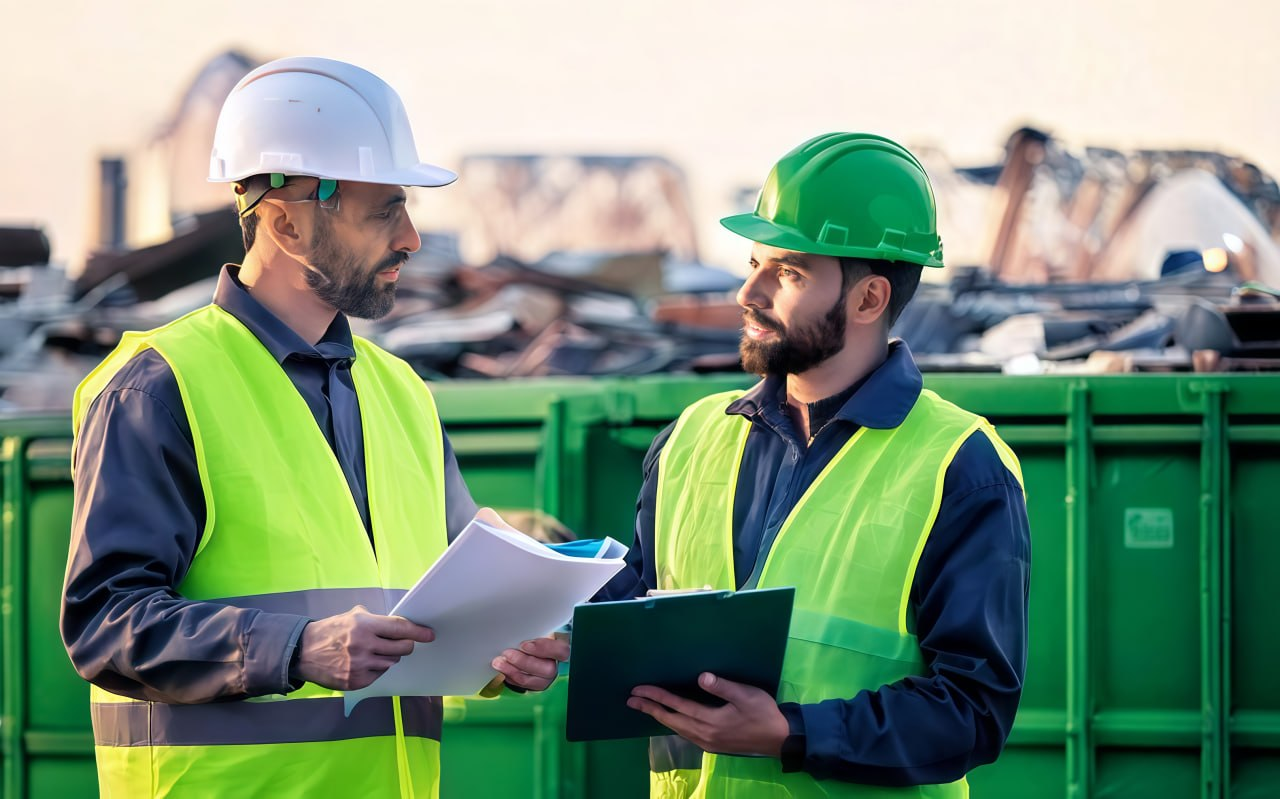
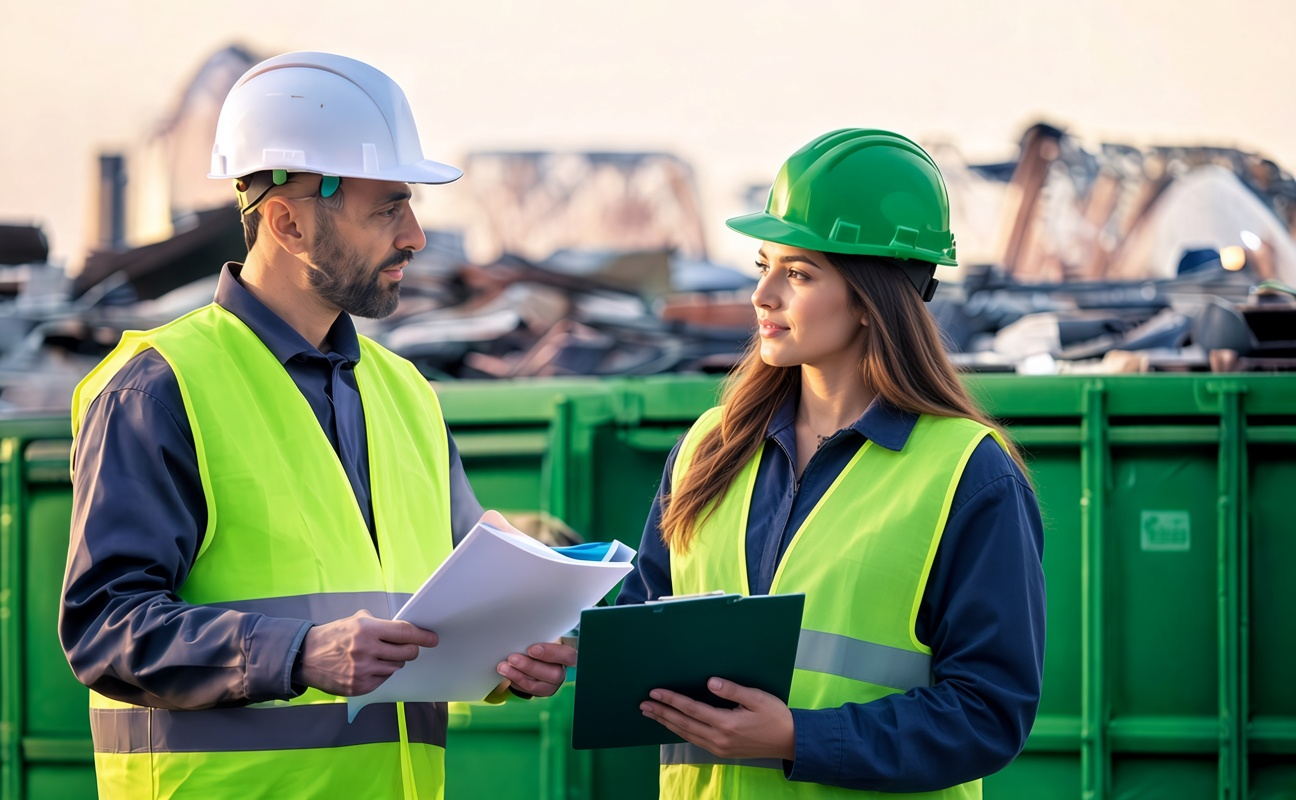
add plan page and order page

diff --git a/src/data/services.js b/src/data/services.js
@@ -6,6 +6,8 @@ import ovdImg from '../img/laptop-4.jpeg';
 import ovdImgMob from '../img/laptop-5.jpg';
 import trashImg from '../img/thrash-2.jpg';
 import trashImgMob from '../img/thrash-1.jpg';
+import workersImg from '../img/workers-2.jpg';
+import phoneImg from '../img/phone-2.jpg';
 
 export const services = [
   {
@@ -257,6 +259,28 @@ export const services = [
     text: `Суб’єкти господарювання у сфері управління відходами (збирання, перевезення, оброблення,
       відновлення, сортування та видалення) зобов’язані мати дозвіл на здійснення операцій
       з оброблення відходів.`,
+      image: workersImg,
+      imageAlt: 'Оброблення відходів',
+      intro: [
+    'Згідно з п. 2 ст. 17 [Закону України «Про управління відходами»](https://zakon.rada.gov.ua/laws/show/2320-20) суб’єкти господарювання у сфері управління відходами (**збирання, перевезення, оброблення, відновлення, сортування та видалення**) зобов’язані мати дозвіл на здійснення операцій з оброблення відходів.',
+    'Суб’єкту господарювання, що планує здійснювати операції з оброблення відходів, необхідно отримати дозвіл на здійснення операцій з оброблення відходів **до початку своєї діяльності** відповідно до п. 2 ст. 41 Закону України «Про управління відходами».',
+    'Порядок отримання дозволу регулюється [Постановою КМУ «Про затвердження Порядку видачі, відмови у видачі, анулювання дозволу на здійснення операцій з оброблення відходів»](https://zakon.rada.gov.ua/laws/show/1328-2023-п) від 19 грудня 2023 р. № 1328.',
+    'Пакет документів можна подавати як особисто до Міндовкілля, поштою чи в електронній формі шляхом використання Єдиного державного вебпорталу електронних послуг.',
+    'Перелік документів частково відрізняється залежно від виду діяльності суб’єкта (оброблення, захоронення, термічне оброблення).',
+    'Відповідно до [Закону України “Про оцінку впливу на довкілля”](https://zakon.rada.gov.ua/laws/show/2059-19#Text) дозвіл видається після отримання [висновку з оцінки впливу на довкілля](https://zakon.rada.gov.ua/laws/show/2059-19#Text).',
+    'Суб’єкти господарювання у сфері **управління небезпечними відходами**, що здійснюють збирання та оброблення небезпечних відходів, зобов’язані **також отримати ліцензію** на здійснення господарської діяльності з управління небезпечними відходами.',
+    ],
+    sections: [
+    {
+      paragraphs: [
+        '**Термін виконання робіт:** від 30 днів.',
+        '**Вартість:** від 25 000 грн.',
+        '**Термін дії документа:** безстроковий, окрім дозволу на захоронення відходів, який видається на розрахунковий строк експлуатації полігона.',
+        'Видача дозволу здійснюється виключно в електронній формі.',
+        'Отримання дозволу на здійснення операцій з оброблення відходів є достатньо трудомістким для спеціаліста іншої сфери діяльності. Доцільно звернутися до фахівців ТОВ “Екологічний консалтинг”, які в цьому добре розбираються, бо мають досвід.',
+      ],
+    },
+  ],
   },
   {
     slug: 'plan',
@@ -265,5 +289,43 @@ export const services = [
       Затверджується розпорядчим документом підприємства протягом 6 місяців з дня набрання чинності
       “Порядку розроблення планів управління відходами підприємств, установ та організацій”,
       затвердженого Наказом Міндовкілля від 09 серпня 2024 року № 1003.`,
-  },
+      image: phoneImg,
+      imageAlt: 'План управління відходами',
+     intro: [
+    'Згідно п.1 ст. 53 [Закону України “Про управління відходами”](https://zakon.rada.gov.ua/laws/show/2320-20) ***утворювачі відходів, які подають декларацію про відходи***, та ***суб’єкти господарювання у сфері управління відходами*** розробляють плани управління відходами.',
+    'Згідно [“Порядку розроблення планів управління відходами підприємств, установ та організацій”](https://zakon.rada.gov.ua/laws/show/z1446-24), затвердженого Наказом Міністерства захисту довкілля та природних ресурсів України від 09 серпня 2024 року № 1003, розроблення та затвердження плану управління відходами здійснюється підприємствами, установами та організаціями **протягом 6 місяців** з дня набрання чинності цього Порядку. Тобто, **до 25.04.2025 року.**',
+    'План розробляється **на 5 років** та затверджується розпорядчим документом підприємства.',
+  ],
+   sections: [
+    {
+      paragraphs: ['План управління відходами має складатися з наступних розділів:'],
+      list: [
+        'вступна частина;',
+        'характеристика підприємства, установи та організації;',
+        'аналіз поточного стану системи управління відходами на підприємстві, в установі та організації;',
+        'планування системи управління відходами на підприємстві, в установі та організації;',
+        'моніторинг виконання плану управління відходами.',
+      ],
+      after: [
+        'Суб’єкти господарювання у сфері управління відходами додатково надають інформацію стосовно своєї діяльності відповідно до Порядку.',
+        'За 3 місяці до закінчення дії плану підприємство має провести оцінку ефективності його виконання відповідно до цільових показників, визначених у розділі «Моніторинг виконання плану управління відходами», розробити новий план управління відходами та затвердити його.',
+        'Підставами для внесення змін до чинного плану управління відходами є:',
+      ],
+    },
+    {
+      list: [
+        'утворення нових видів відходів;',
+        'зміна обсягів утворення відходів більше ніж на 20%.',
+      ],
+      after: [
+        'Внесення змін до плану здійснюється протягом 3 місяців з дати настання таких підстав.',
+        '**Термін виконання робіт:** від 30 днів.',
+        '**Вартість:** від 18 000 грн.',
+        '**Термін дії документа:** 5 років.',
+        'Враховуючи, що за останні кілька років суттєво змінилося законодавство у сфері поводження з відходами: необхідно чимало часу вивчати нові Закони та Постанови, шукати нові коди відходів та ліцензованих утилізаторів, зекономити час Ви можете, замовивши безкоштовну консультацію за формою нижче.',
+        'Кваліфіковані фахівці ТОВ “Екологічний консалтинг” з радістю нададуть відповідь на всі Ваші питання.',
+      ],
+    },
+  ],
+},
 ];

diff --git a/src/pages/ServiceDetail/ServiceDetail.jsx b/src/pages/ServiceDetail/ServiceDetail.jsx
@@ -11,7 +11,7 @@ import { Footer } from 'components/Footer/Footer';
 
 const renderRich = (text) =>
     text
-        .split(/(\[[^\]]+\]\([^)]+\)|\*\*[^*]+\*\*|==[^=]+==|\*[^*]+\*)/g)
+        .split(/(\[[^\]]+\]\([^)]+\)|\*\*\*[^*]+\*\*\*|\*\*[^*]+\*\*|==[^=]+==|\*[^*]+\*)/g)
         .map((part, i) => {
             const link = part.match(/^\[([^\]]+)\]\(([^)]+)\)$/);
             if (link) {
@@ -21,6 +21,7 @@ const renderRich = (text) =>
                     </ExtLink>
                 );
             }
+            if (part.startsWith('***')) return <strong key={i}><em>{part.slice(3, -3)}</em></strong>;
             if (part.startsWith('**')) return <strong key={i}>{part.slice(2, -2)}</strong>;
             if (part.startsWith('==')) return <Accent key={i}>{part.slice(2, -2)}</Accent>;
             if (part.startsWith('*')) return <em key={i}>{part.slice(1, -1)}</em>;
